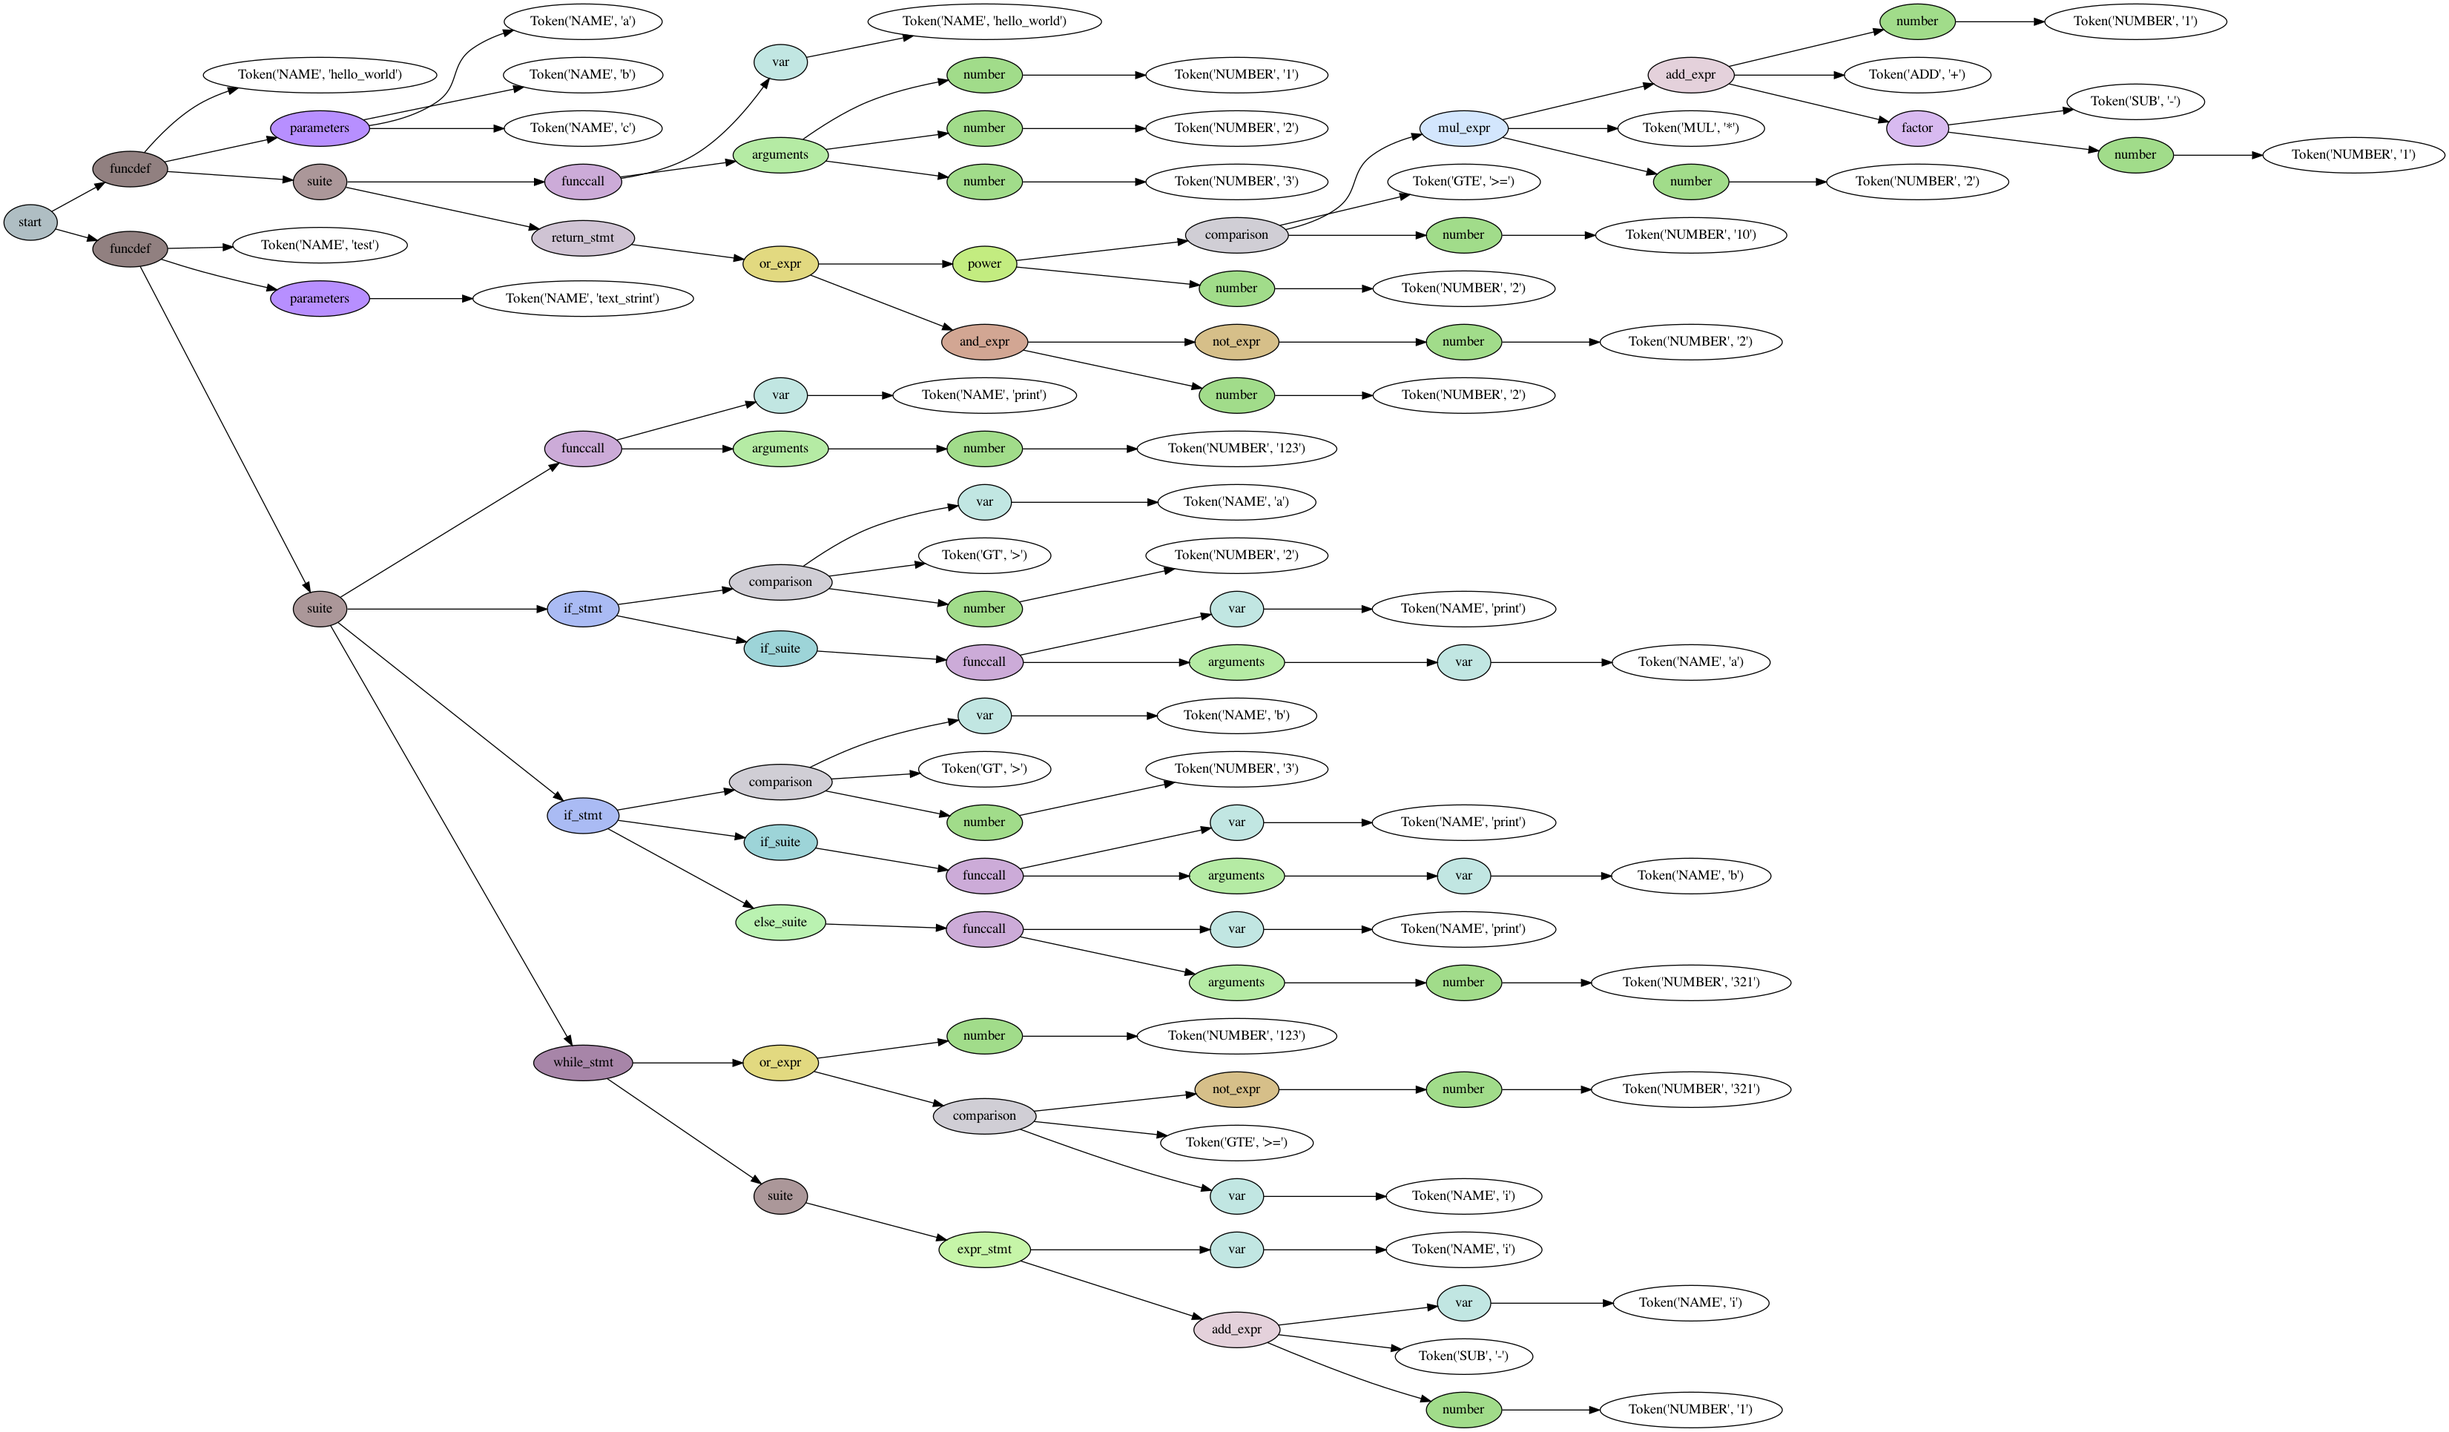
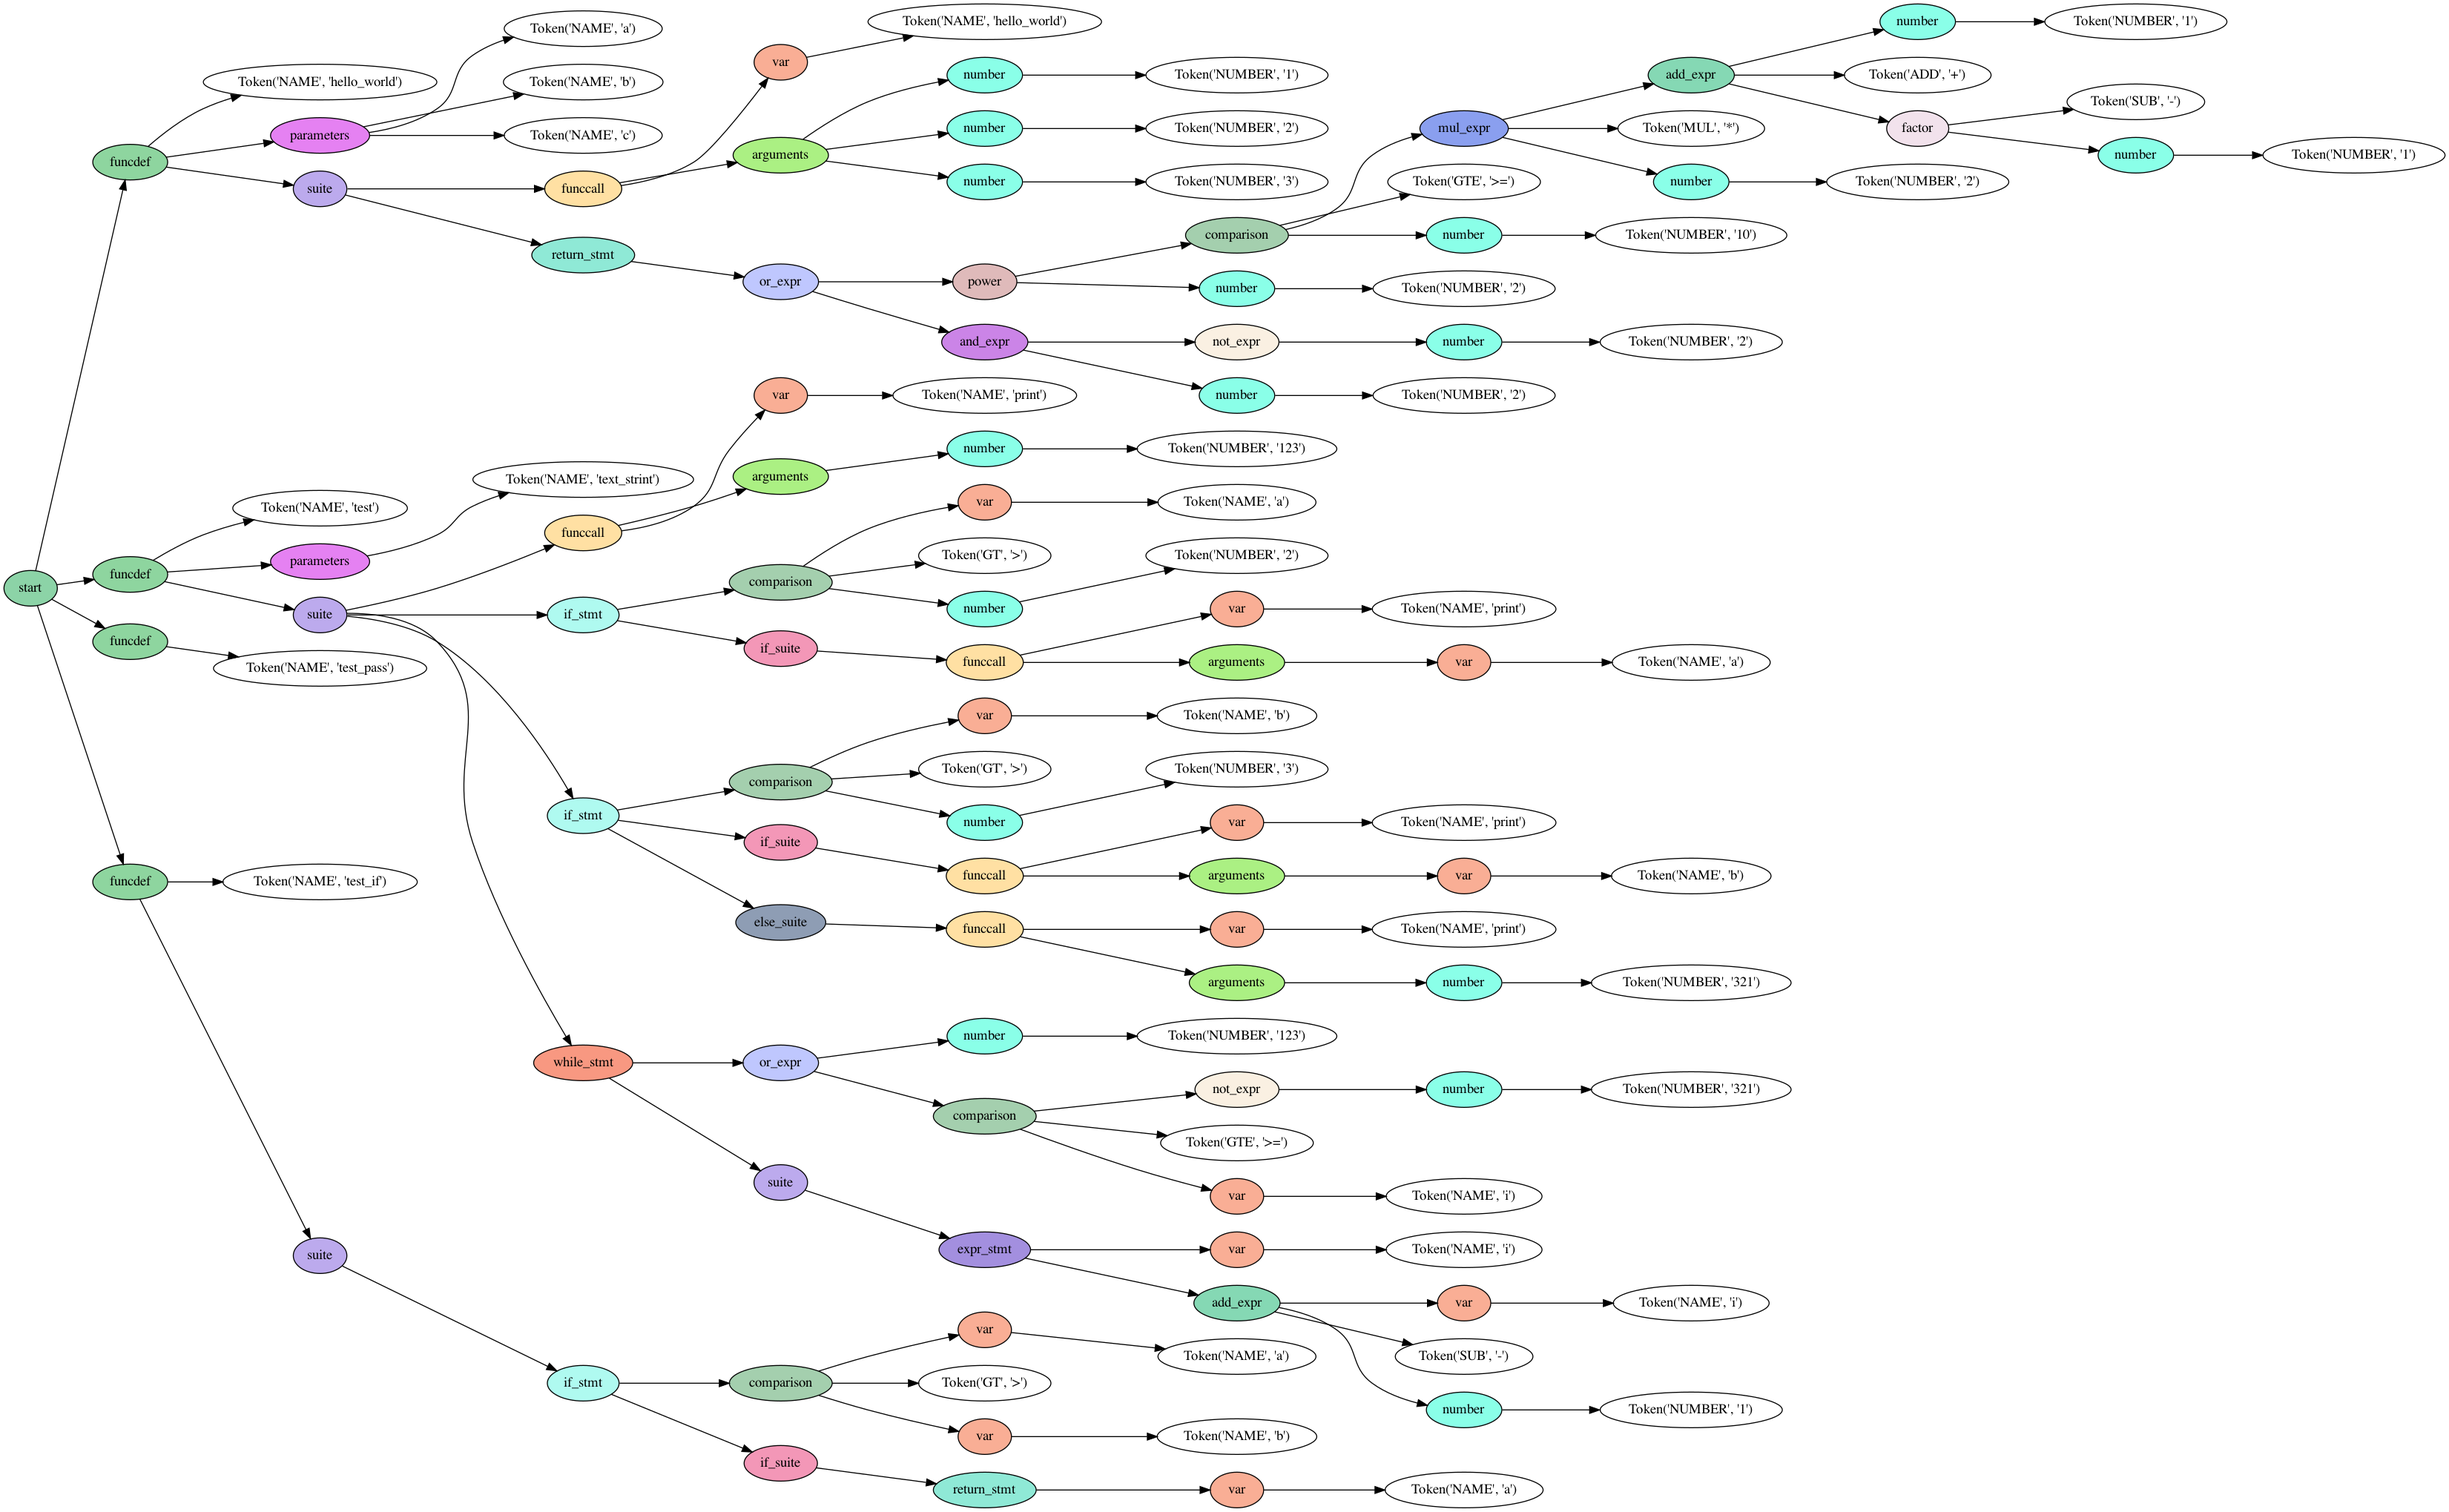
Fix pass in AST

diff --git a/parser.py b/parser.py
@@ -1,8 +1,9 @@
 import sys
 
-from lark import Lark
+from lark import Lark, Transformer
 from lark.indenter import Indenter
 from lark.tree import pydot__tree_to_png
+from lark.visitors import v_args, Discard
 
 try:
     input_file = sys.argv[1]
@@ -12,7 +13,6 @@ except IndexError:
     exit(0)
 
 grammar = r"""
-    single_input: _NEWLINE | simple_stmt | compound_stmt _NEWLINE
     start: (_NEWLINE | stmt)*
     
     funcdef: "def" NAME "(" parameters? ")" ":" suite
@@ -22,7 +22,7 @@ grammar = r"""
     ?paramvalue: NAME
     
     ?stmt: simple_stmt | compound_stmt
-    ?simple_stmt: small_stmt (";" small_stmt)* [";"] _NEWLINE
+    ?simple_stmt: small_stmt _NEWLINE
     ?small_stmt: (expr_stmt | pass_stmt | flow_stmt)
     ?expr_stmt: test (annassign | ("=" (test))*)
     annassign: ":" test ["=" test]
@@ -33,10 +33,10 @@ grammar = r"""
     
     ?compound_stmt: if_stmt | while_stmt | funcdef
     if_stmt: "if" test ":" if_suite ["else" ":" else_suite]
-    while_stmt: "while" test ":" suite ["else" ":" suite]
-    suite: simple_stmt | _NEWLINE _INDENT stmt+ _DEDENT
-    if_suite: simple_stmt | _NEWLINE _INDENT stmt+ _DEDENT
-    else_suite: simple_stmt | _NEWLINE _INDENT stmt+ _DEDENT
+    while_stmt: "while" test ":" suite
+    suite: _NEWLINE _INDENT stmt+ _DEDENT
+    if_suite: _NEWLINE _INDENT stmt+ _DEDENT
+    else_suite: _NEWLINE _INDENT stmt+ _DEDENT
     
     ?test: expr
     ?expr: or_expr
@@ -99,6 +99,29 @@ class PythonIndenter(Indenter):
     tab_len = 4
 
 
+class RemovePassStatement(Transformer):
+    @v_args(tree=True)
+    def suite(self, tree):
+        tree.children = list(filter(lambda tree: tree.data != "pass_stmt", tree.children))
+        if not len(tree.children):
+            raise Discard
+        return tree
+
+    @v_args(tree=True)
+    def if_suite(self, tree):
+        tree.children = list(filter(lambda tree: tree.data != "pass_stmt", tree.children))
+        if not len(tree.children):
+            raise Discard
+        return tree
+
+    @v_args(tree=True)
+    def else_suite(self, tree):
+        tree.children = list(filter(lambda tree: tree.data != "pass_stmt", tree.children))
+        if not len(tree.children):
+            raise Discard
+        return tree
+
+
 p = Lark(grammar, parser='lalr', postlex=PythonIndenter())
 
 if __name__ == '__main__':
@@ -106,6 +129,7 @@ if __name__ == '__main__':
         try:
             code = file.read()
             tree = p.parse(code)
+            tree = RemovePassStatement().transform(tree)
             pydot__tree_to_png(tree, output_file)
         except Exception as e:
             print(f"Parse error! {e}")
